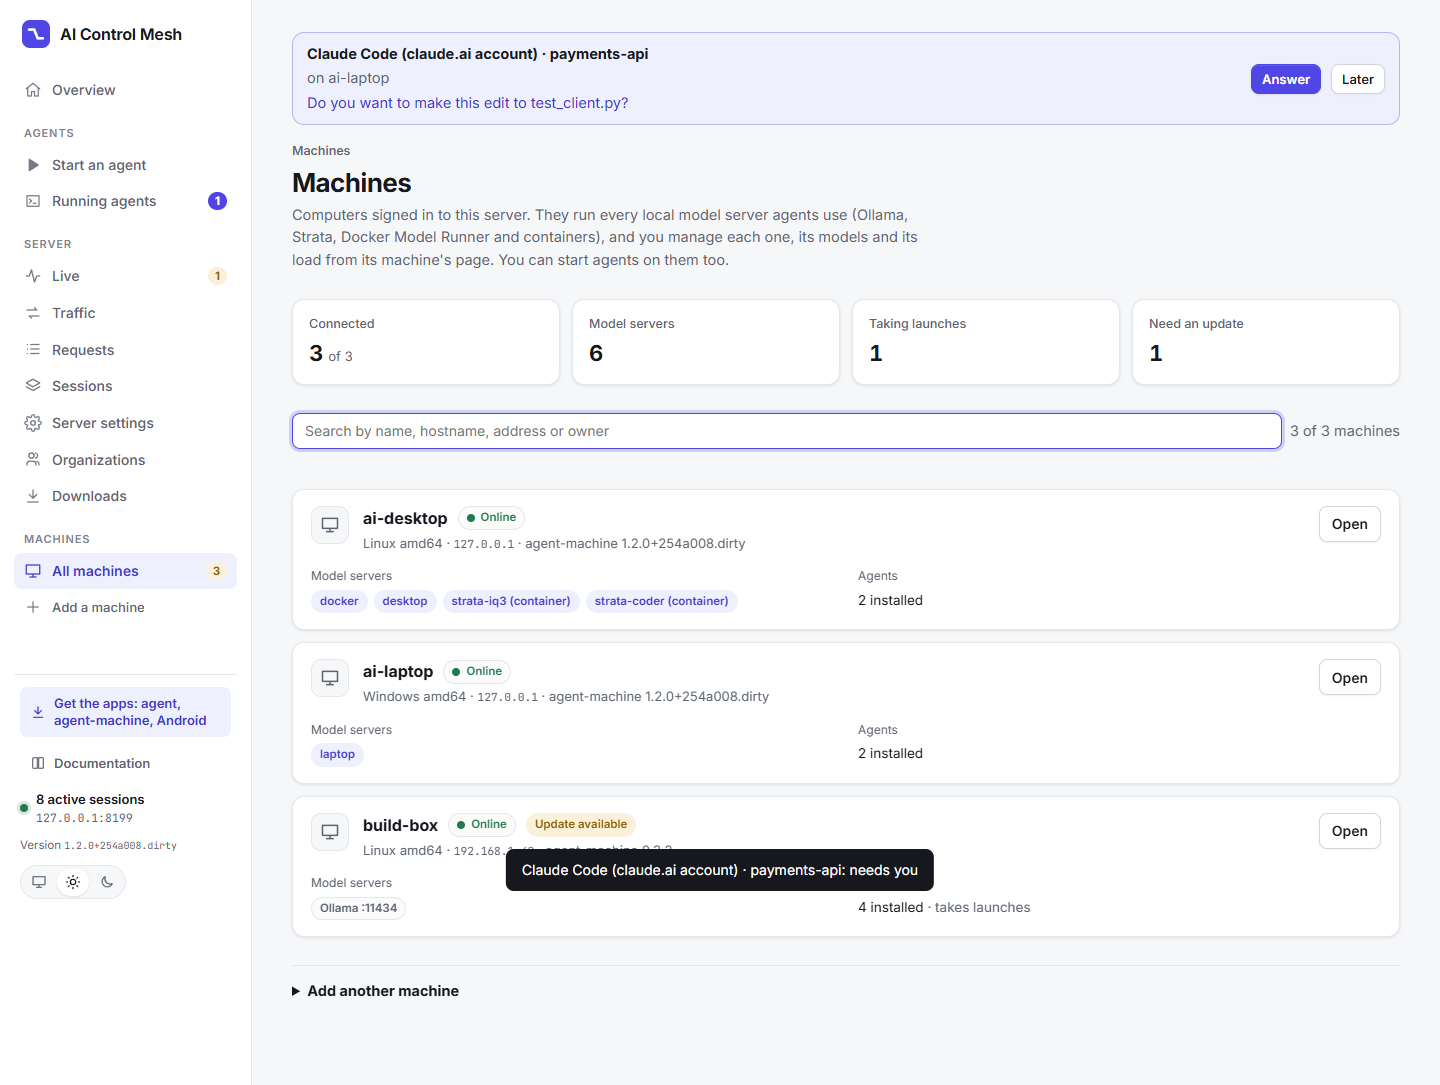
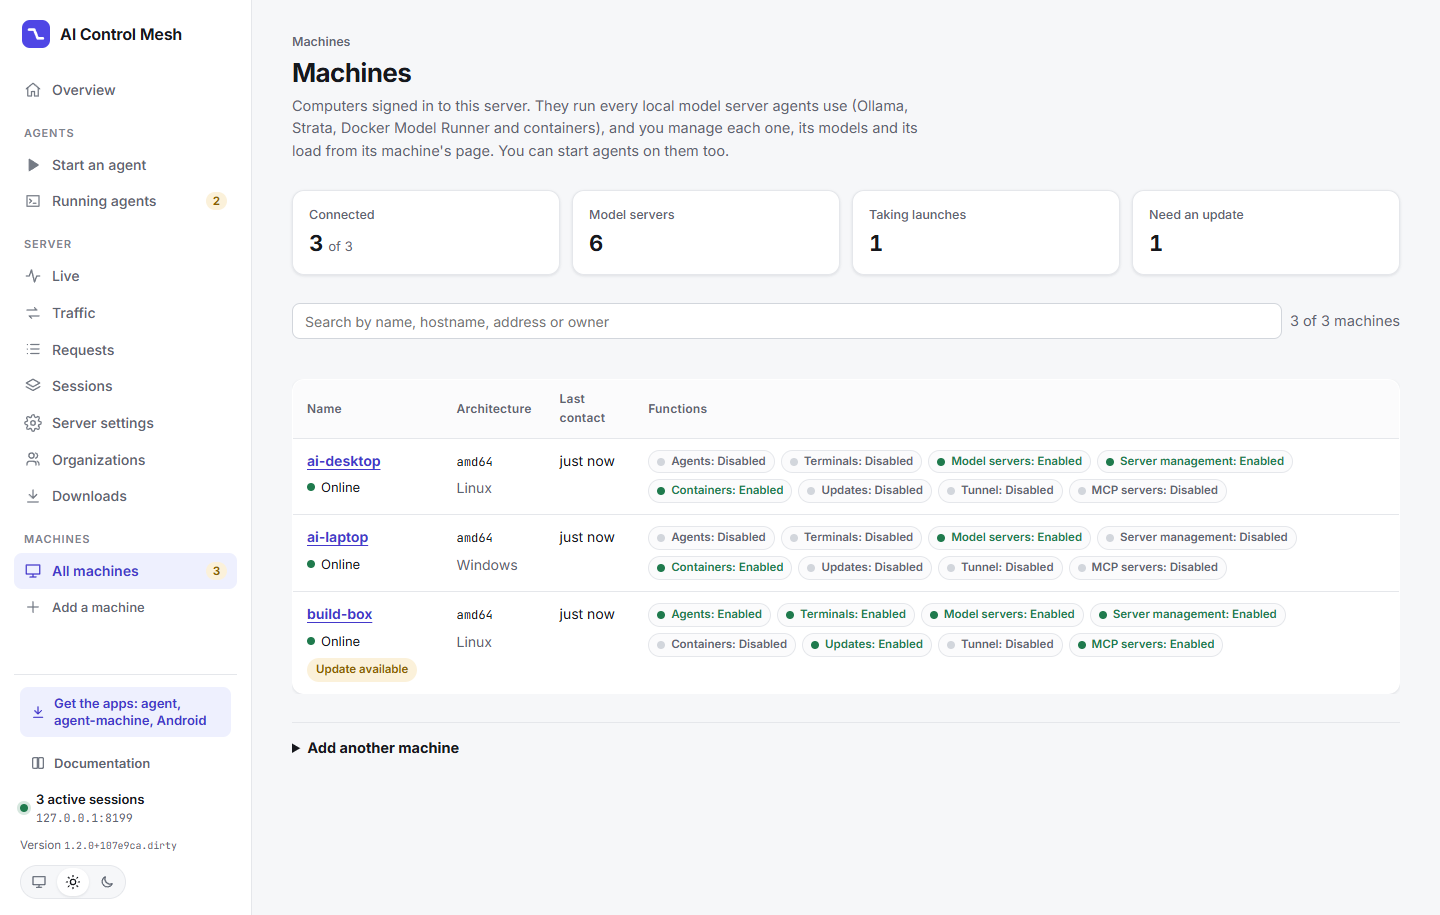
Show fleet functions in machine list

diff --git a/ui/src/pages/Machines.tsx b/ui/src/pages/Machines.tsx
@@ -3,12 +3,11 @@ import { Link, useLocation } from "react-router-dom";
 import { useMutation, useQueryClient } from "@tanstack/react-query";
 import { api, machineProviders, type FleetMachine, type RemovedMachine } from "../api";
 import { CodeLine } from "../components/CodeLine";
-import { Icon } from "../components/Icon";
 import { PartTag } from "../components/PartTag";
 import { StateDot } from "../components/ProviderState";
-import { useAgents, useAuth, useClipboard, useMachines, useStatus, useToast } from "../hooks";
-import { formatRelative } from "../format";
-import { OS_LABELS, machinePath, providerName } from "./Machine";
+import { useAuth, useClipboard, useMachines, useStatus, useToast } from "../hooks";
+import { formatDate, formatRelative } from "../format";
+import { OS_LABELS, machinePath } from "./Machine";
 import { OneLineInstall, serverAddress } from "./Downloads";
 
 /** The fleet: machines signed in to this server. Each one's page has its model servers, containers, load and launches. */
@@ -79,11 +78,18 @@ export function MachinesPage() {
         </div>
       )}
       {machines.data && list.length > 0 && shown.length === 0 && <p className="subtle">No machines match your search.</p>}
-      <div className="machine-list">
-        {shown.map((machine) => (
-          <MachineSummary key={machine.id} machine={machine} />
-        ))}
-      </div>
+      {shown.length > 0 && (
+        <div className="table-scroll">
+          <table className="table fleet-table">
+            <thead>
+              <tr><th>Name</th><th>Architecture</th><th>Last contact</th><th>Functions</th></tr>
+            </thead>
+            <tbody>
+              {shown.map((machine) => <MachineRow key={machine.id} machine={machine} />)}
+            </tbody>
+          </table>
+        </div>
+      )}
 
       {(machines.data?.removed ?? []).length > 0 && <RemovedMachines removed={machines.data?.removed ?? []} />}
 
@@ -139,64 +145,45 @@ function RemovedMachines({ removed }: { removed: RemovedMachine[] }) {
   );
 }
 
-function MachineSummary({ machine }: { machine: FleetMachine }) {
+function MachineRow({ machine }: { machine: FleetMachine }) {
   const status = useStatus();
-  const agents = useAgents();
-  const providers = machineProviders(machine, status.data?.backends);
-  const installed = (agents.data ?? []).filter((agent) => machine.agents.includes(agent.id));
+  const lastContact = new Date(machine.last_seen * 1000).toISOString();
+  const functions = [
+    { name: "Agents", enabled: machine.launches },
+    { name: "Terminals", enabled: Boolean(machine.commands) },
+    { name: "Model servers", enabled: machineProviders(machine, status.data?.backends).length > 0 },
+    { name: "Server management", enabled: Boolean(machine.servers.enabled) },
+    { name: "Containers", enabled: Boolean(machine.containers.enabled) },
+    { name: "Updates", enabled: Boolean(machine.updates) },
+    { name: "Tunnel", enabled: Boolean(machine.tunnel) },
+    { name: "MCP servers", enabled: (machine.mcp?.servers?.length ?? 0) > 0 },
+  ];
   return (
-    <article className={`machine-card ${machine.connected ? "is-online" : ""}`} aria-labelledby={`machine-${machine.id}`}>
-      <header className="machine-card-head">
-        <span className="provider-icon" aria-hidden="true">
-          <Icon name="monitor" size={20} />
-        </span>
-        <div className="machine-card-title">
-          <h2 id={`machine-${machine.id}`}>
-            <Link to={machinePath(machine.id)}>{machine.name}</Link>
-            <span className={`pill ${machine.connected ? "good" : ""}`}>
-              <StateDot tone={machine.connected ? "good" : "idle"} />{" "}
-              {machine.connected ? "Online" : `Seen ${formatRelative(new Date(machine.last_seen * 1000).toISOString())}`}
-            </span>
-            {machine.update?.available && <span className="pill live">Update available</span>}
-          </h2>
-          <p className="subtle">
-            {OS_LABELS[machine.os] ?? machine.os} {machine.arch}
-            {machine.owner && <> · {machine.owner}</>}
-            {machine.address && <> · <span className="mono">{machine.address}</span></>}
-            {machine.version && <> · agent-machine {machine.version}</>}
-          </p>
-        </div>
-        <div className="row wrap machine-card-actions">
-          <Link className="button" to={machinePath(machine.id)}>
-            Open
-          </Link>
-        </div>
-      </header>
-      <dl className="machine-facts">
-        <div>
-          <dt>Model servers</dt>
-          <dd className="chips">
-            {providers.length ? (
-              providers.map((provider) => (
-                <Link key={provider.id} className={`pill ${provider.backend ? "accent" : ""}`} to={machinePath(machine.id, provider.id)}>
-                  {provider.backend ?? providerName(provider)}
-                  {provider.container ? " (container)" : ""}
-                </Link>
-              ))
-            ) : (
-              <span className="subtle">None found</span>
-            )}
-          </dd>
-        </div>
-        <div>
-          <dt>Agents</dt>
-          <dd>
-            {installed.length ? `${installed.length} installed` : <span className="subtle">None of the server's agents</span>}
-            {machine.launches ? <span className="subtle"> · takes launches</span> : null}
-          </dd>
-        </div>
-      </dl>
-    </article>
+    <tr>
+      <td data-label="Name">
+        <Link className="fleet-name" to={machinePath(machine.id)}>{machine.name}</Link>
+        <span className="row fleet-state"><StateDot tone={machine.connected ? "good" : "idle"} />{machine.connected ? "Online" : "Offline"}</span>
+        {machine.owner && <span className="subtle">{machine.owner}</span>}
+        {machine.update?.available && <span className="pill live">Update available</span>}
+      </td>
+      <td data-label="Architecture">
+        <span className="mono">{machine.arch || "Unknown"}</span>
+        <span className="subtle fleet-system">{OS_LABELS[machine.os] ?? machine.os}</span>
+      </td>
+      <td data-label="Last contact">
+        <time dateTime={lastContact} title={formatDate(lastContact)}>{formatRelative(lastContact)}</time>
+      </td>
+      <td data-label="Functions">
+        <ul className="fleet-functions" aria-label={`${machine.name} functions`}>
+          {functions.map(({ name, enabled }) => (
+            <li key={name} className={`pill ${enabled ? "good" : ""}`}>
+              <StateDot tone={enabled ? "good" : "idle"} />
+              <span>{name}: {enabled ? "Enabled" : "Disabled"}</span>
+            </li>
+          ))}
+        </ul>
+      </td>
+    </tr>
   );
 }
 

diff --git a/ui/src/styles.css b/ui/src/styles.css
@@ -983,6 +983,21 @@ code { background: var(--ground); border: 1px solid var(--line); padding: 0 5px;
 
 /* Machines: the fleet */
 .machine-list { display: flex; flex-direction: column; gap: 12px; }
+.fleet-table td { vertical-align: top; }
+.fleet-table td:first-child { min-width: 150px; }
+.fleet-name { display: block; font-weight: 650; overflow-wrap: anywhere; }
+.fleet-state { gap: 6px; margin: 6px 0; font-size: 13px; }
+.fleet-system { display: block; margin-top: 6px; }
+.fleet-functions { list-style: none; padding: 0; margin: 0; display: flex; flex-wrap: wrap; gap: 6px; }
+.fleet-functions .pill { display: inline-flex; align-items: center; gap: 6px; }
+@media (max-width: 700px) {
+  .fleet-table, .fleet-table tbody { display: block; width: 100%; }
+  .fleet-table thead { display: none; }
+  .fleet-table tr { display: grid; grid-template-columns: repeat(2, minmax(0, 1fr)); gap: 16px; padding: 16px; border-bottom: 1px solid var(--line); }
+  .fleet-table td { display: block; padding: 0; border: 0; min-width: 0; }
+  .fleet-table td:first-child, .fleet-table td:last-child { grid-column: 1 / -1; min-width: 0; }
+  .fleet-table td::before { content: attr(data-label); display: block; margin-bottom: 6px; color: var(--steel); font-size: 12px; font-weight: 650; }
+}
 .machine-card { display: flex; flex-direction: column; gap: 14px; padding: 16px 18px; background: var(--paper); border: 1px solid var(--line); border-radius: var(--radius); box-shadow: var(--shadow); }
 .machine-card:not(.is-online) { background: var(--raised); }
 .machine-card:not(.is-online) .provider-icon { opacity: 0.6; }

diff --git a/docs/console.md b/docs/console.md
@@ -28,7 +28,7 @@ The rail on the left has three parts, in the order a request flows:
 | Part | Pages | What it's for |
 | --- | --- | --- |
 | **1 Agents** | Start an agent, Running agents | Start a coding agent through the server, then watch it and type into it from any device. |
-| **2 Server** | Live, Traffic, Requests, Sessions, Server settings, Organizations, Downloads | The hub: every request agents make passes through it and is recorded. |
+| **2 Server** | Live, Traffic, Requests, Sessions, Server settings, Organizations, Downloads | The hub: allowed agent requests pass through it and are recorded. |
 | **3 Machines** | All machines, Add a machine | Open **All machines** to search and select a computer. Individual machines aren't listed in the rail. |
 
 - The small label above each page's title is its breadcrumb ("Machines › build-box").
@@ -125,7 +125,7 @@ Account agents' other calls (sign-in, telemetry, MCP) aren't shown here; they're
 
 ![Traffic](screenshots/traffic.png)
 
-`/traffic` is every request through the server: model calls on the proxy endpoints, everything account agents send to their own services, and calls to shared MCP servers.
+`/traffic` lists recorded requests through the server: model calls on the proxy endpoints, permitted account-agent requests to public services, and calls to shared MCP servers. The HTTPS proxy refuses private and reserved destinations.
 
 - **Search** by service, host, path, agent or model, pick a **session**, and tick **Failed only**.
 - **Request types** filter the list: Model call, Token count, Model list, MCP, Account, Sign-in, Settings & flags, Telemetry, Updates, Connection and Other, each with its count. What each type covers is in [What the requests are](agents.md#what-the-requests-are).
@@ -220,9 +220,11 @@ If nothing has been built (`scripts/build-dist`), it says **Nothing built yet**.
 
 ![Machines](screenshots/machines.png)
 
-`/machines` lists the fleet: each machine's state (connected or not), owner, system, its model servers, the agents installed on it, whether it takes launches, and whether it needs an update.
+`/machines` lists the fleet in rows: **Name** (with online/offline state and owner), **Architecture** (with operating system), **Last contact** (hover for the full date and time), and **Functions**. Open a machine's name to manage it.
 
-- **Search machines**: filter by name, machine id, hostname, address or owner. Search ignores case; clearing it shows the whole list again. Open a machine's name or **Open** to manage it.
+Each row marks **Agents**, **Terminals**, **Model servers**, **Server management**, **Containers**, **Updates**, **Tunnel** and **MCP servers** as Enabled or Disabled. These are the machine's reported settings, not your personal permissions or a promise that an offline machine is usable. Model servers and MCP servers are enabled when the machine reports servers; the other functions follow its switches. An update badge shows when a newer build is available. Narrow screens show the same fields stacked.
+
+- **Search machines**: filter by name, machine id, hostname, address or owner. Search ignores case; clearing it shows the whole list again.
 - **Add a machine**: the commands to install and sign in agent-machine on Linux or macOS and on Windows (PowerShell). **Add another machine** shows them again when the fleet isn't empty.
 - **Or run a sandbox machine in a container**: the Docker or Podman command for the sandbox image, which runs agents in a container (see [Machines](machines.md#a-sandbox-machine-in-docker)).
 - **Removed**: machines taken off the server, which you (their owner or an admin) can allow back.

diff --git a/.context/console.md b/.context/console.md
@@ -33,7 +33,7 @@ flowchart TB
 
 `navigation.ts` `PARTS`: **Agents** (`/agents` Start an agent, `/terminals` Running agents), **Server** (`/live`, `/traffic`, `/requests`, `/sessions`, `/settings`, `/organization`, `/get`), **Machines** (`/machines`, active on individual machine pages too). `partFor()` drives `PartTag`, the breadcrumb above each `<h1>`.
 
-`MachinesPage` lists machines with a case-insensitive search over name, id, hostname, address and owner. Searching only filters the cards; fleet totals and the add/removed-machine controls stay unchanged.
+`MachinesPage` lists machines in responsive rows (name, architecture, last contact, function states), with a case-insensitive search over name, id, hostname, address and owner. `MachineRow` uses reported flags for agents, terminals, server management, containers, updates and tunnel; model servers use `machineProviders`, MCP uses reported servers. These describe configuration/presence, not `machine.you` permissions or connection readiness. Searching only filters the rows; fleet totals and the add/removed-machine controls stay unchanged.
 
 ## Data layer
 
